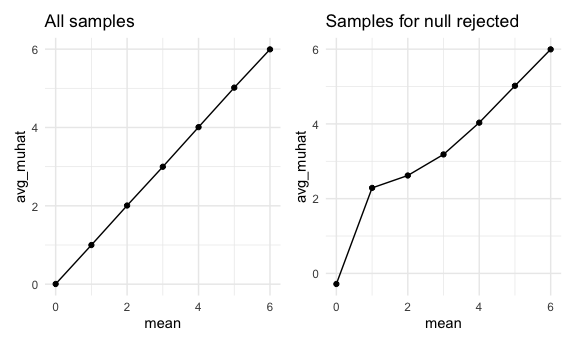
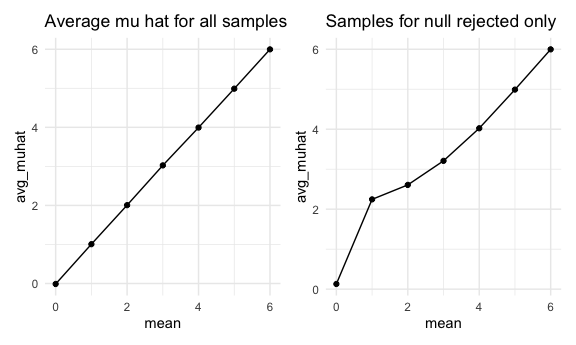
added plots for problem 3

diff --git a/p8105_hw5_jl2361.md b/p8105_hw5_jl2361.md
@@ -447,18 +447,18 @@ sim_df
 ```
 
     ## # A tibble: 5,000 × 4
-    ##     mean  iter  mu_hat p_value
-    ##    <dbl> <int>   <dbl>   <dbl>
-    ##  1     0     1 -0.953    0.297
-    ##  2     0     2  0.265    0.783
-    ##  3     0     3 -0.289    0.761
-    ##  4     0     4 -1.81     0.136
-    ##  5     0     5  0.339    0.760
-    ##  6     0     6  0.911    0.393
-    ##  7     0     7 -0.926    0.300
-    ##  8     0     8  0.0445   0.965
-    ##  9     0     9  0.350    0.696
-    ## 10     0    10  1.30     0.136
+    ##     mean  iter mu_hat p_value
+    ##    <dbl> <int>  <dbl>   <dbl>
+    ##  1     0     1  0.538   0.503
+    ##  2     0     2  1.23    0.200
+    ##  3     0     3  0.584   0.545
+    ##  4     0     4 -0.351   0.663
+    ##  5     0     5  0.629   0.505
+    ##  6     0     6  0.710   0.409
+    ##  7     0     7 -1.22    0.234
+    ##  8     0     8 -0.345   0.718
+    ##  9     0     9 -0.471   0.591
+    ## 10     0    10  0.608   0.459
     ## # … with 4,990 more rows
 
 We repeat the above including μ={1,2,3,4,5,6}.
@@ -479,18 +479,18 @@ sim_df2
 ```
 
     ## # A tibble: 35,000 × 4
-    ##     mean  iter  mu_hat p_value
-    ##    <int> <int>   <dbl>   <dbl>
-    ##  1     0     1  0.620   0.493 
-    ##  2     0     2 -0.660   0.386 
-    ##  3     0     3 -0.488   0.624 
-    ##  4     0     4  0.0214  0.984 
-    ##  5     0     5  0.372   0.673 
-    ##  6     0     6  1.52    0.130 
-    ##  7     0     7  0.627   0.524 
-    ##  8     0     8  1.38    0.0887
-    ##  9     0     9  1.87    0.0478
-    ## 10     0    10 -1.04    0.448 
+    ##     mean  iter mu_hat p_value
+    ##    <int> <int>  <dbl>   <dbl>
+    ##  1     0     1 -1.52   0.0809
+    ##  2     0     2  0.284  0.678 
+    ##  3     0     3  0.266  0.753 
+    ##  4     0     4 -0.955  0.392 
+    ##  5     0     5 -0.478  0.665 
+    ##  6     0     6 -1.17   0.205 
+    ##  7     0     7 -0.775  0.447 
+    ##  8     0     8  0.863  0.339 
+    ##  9     0     9  1.61   0.0647
+    ## 10     0    10 -0.702  0.462 
     ## # … with 34,990 more rows
 
 ## Plots
@@ -539,7 +539,7 @@ mean_plot1 =
   ggplot(
     aes(x = mean, y = avg_muhat)) +
   geom_point() + geom_line() +
-  labs(title = "All samples")
+  labs(title = "Average mu hat for all samples")
 
 mean_plot2 =
   sim_df2 %>% 
@@ -552,9 +552,35 @@ mean_plot2 =
   ggplot(
     aes(x = mean, y = avg_muhat)) +
   geom_point() + geom_line() +
-  labs(title = "Samples for null rejected")
+  labs(title = "Samples for null rejected only")
 
 mean_plot1 + mean_plot2
 ```
 
 <img src="p8105_hw5_jl2361_files/figure-gfm/unnamed-chunk-12-1.png" width="90%" />
+
+Here are plots that depict similar information as above but with all μ̂
+represented, not just the average estimate of μ̂.
+
+``` r
+mean_plot3 =
+  sim_df2 %>% 
+  ggplot(
+    aes(x = mean, y = mu_hat)) +
+  geom_point(alpha = 0.5) +
+  labs(title = "Mu hat for all samples")
+
+mean_plot4 =
+  sim_df2 %>% 
+    mutate(
+    reject = if_else(p_value < 0.05, "y", "n")) %>%
+  filter(reject == "y") %>%
+  ggplot(
+    aes(x = mean, y = mu_hat)) +
+  geom_point(alpha = 0.5) +
+  labs(title = "Samples for null rejected only")
+
+mean_plot3 + mean_plot4
+```
+
+<img src="p8105_hw5_jl2361_files/figure-gfm/unnamed-chunk-13-1.png" width="90%" />
